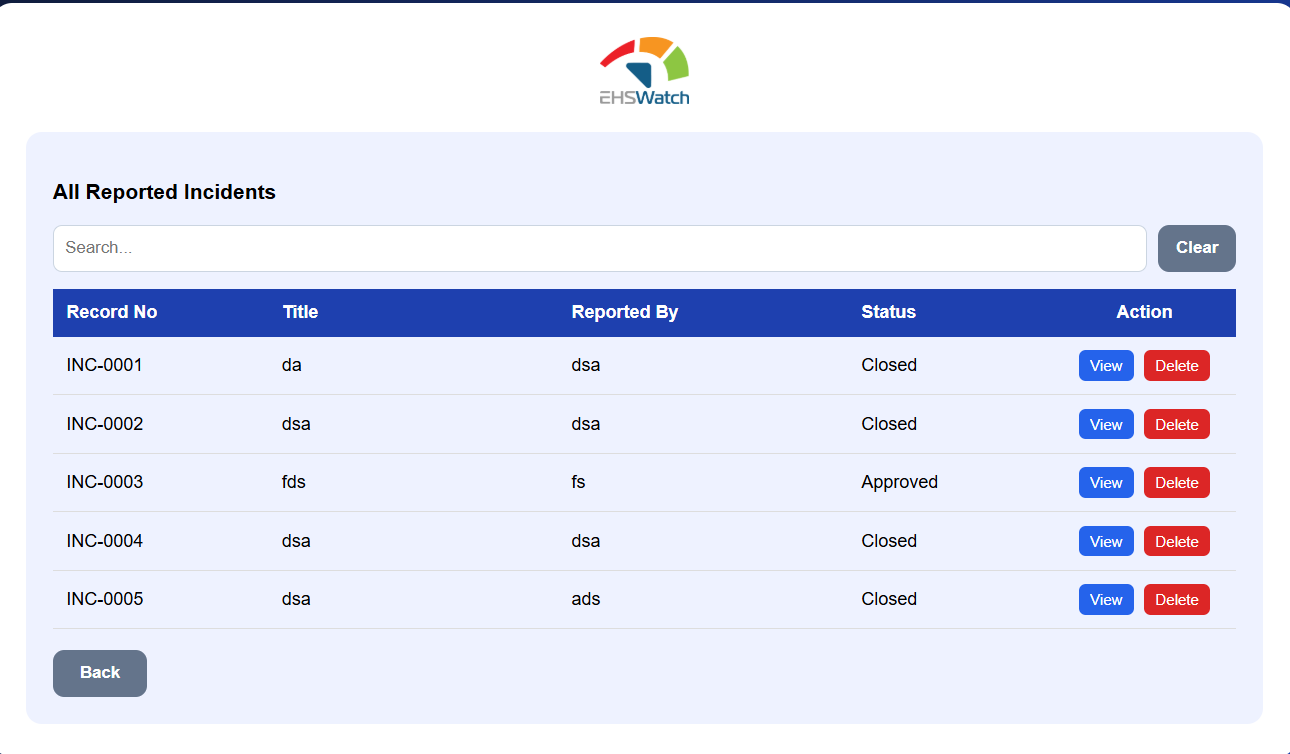
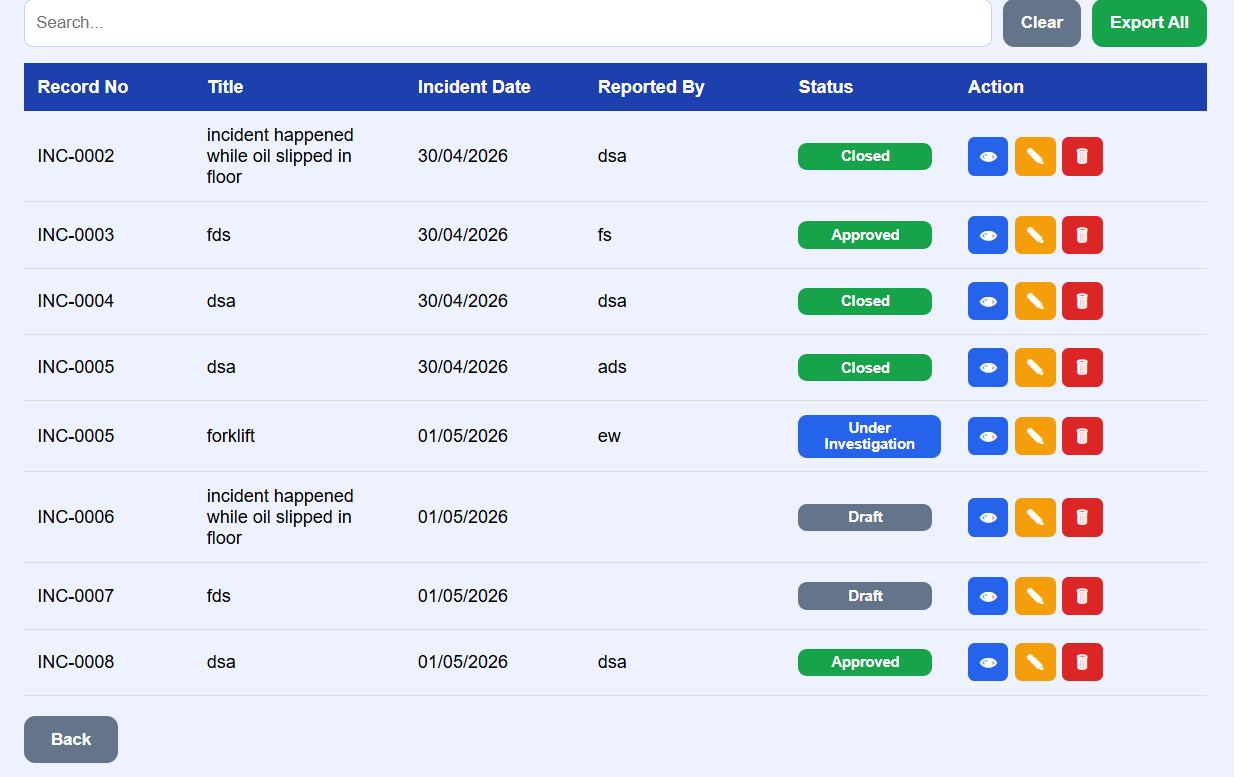
Final update - AI suggestions, draft flow, edit, export, status filter, UI improvements, README updates

diff --git a/index.html b/index.html
@@ -601,8 +601,8 @@ function saveDraft() {
     let data = JSON.parse(localStorage.getItem("incidentData")) || [];
 
     const recordNo = editIndex !== null
-        ? data[editIndex].recordNo
-        : "INC-" + String(data.length + 1).padStart(4, "0");
+    ? data[editIndex].recordNo
+    : generateRecordNo(data);
 
     const draftItem = {
         recordNo: recordNo,
@@ -641,7 +641,9 @@ function submitForm() {
     answers[q.key] = { label: q.label, value: val };
 
     let data = JSON.parse(localStorage.getItem("incidentData")) || [];
-    const recordNo = editIndex !== null ? data[editIndex].recordNo : "INC-" + String(data.length + 1).padStart(4, "0");
+    const recordNo = editIndex !== null
+    ? data[editIndex].recordNo
+    : generateRecordNo(data);
     answers.recordNo = { label: "Record No", value: recordNo };
     const incidentItem = buildIncidentItem(recordNo);
 
@@ -858,6 +860,28 @@ function downloadCsv(csv, filename) {
     document.body.appendChild(link);
     link.click();
     document.body.removeChild(link);
+}
+
+function generateRecordNo(data) {
+    if (!Array.isArray(data) || data.length === 0) {
+        return "INC-0001"; // 
+    }
+
+    let max = 0;
+
+    data.forEach(item => {
+        if (item && item.recordNo) {
+            const match = item.recordNo.match(/\d+/);
+            if (match) {
+                const num = parseInt(match[0], 10);
+                if (!isNaN(num) && num > max) {
+                    max = num;
+                }
+            }
+        }
+    });
+
+    return "INC-" + String(max + 1).padStart(4, "0");
 }
 
 function exportExcel() {

diff --git a/README.md b/README.md
@@ -23,7 +23,6 @@ Open `index.html` in any browser.
 ## Future Enhancements
 - Store data in backend database
 - Add login and roles
-- Add edit/view incident list
 - Add real charts
 - Deploy using GitHub Pages
 
@@ -55,6 +54,18 @@ Open `index.html` in any browser.
 
 ### View Incident Details
 ![View](screenshots/view.png)
+
+### AI Suggestions (Based on Incident Title)
+![AI Suggestions](screenshots/ai-suggestions.png)
+
+### Save Draft Functionality
+![Save Draft](screenshots/draft.png)
+
+### Edit Incident Workflow
+![Edit](screenshots/edit.png)
+
+### Export (All)
+![Export Updated](screenshots/export-new.png)
 
 ## Live Demo
 https://automatemounica.github.io/ai-incident-assistant/